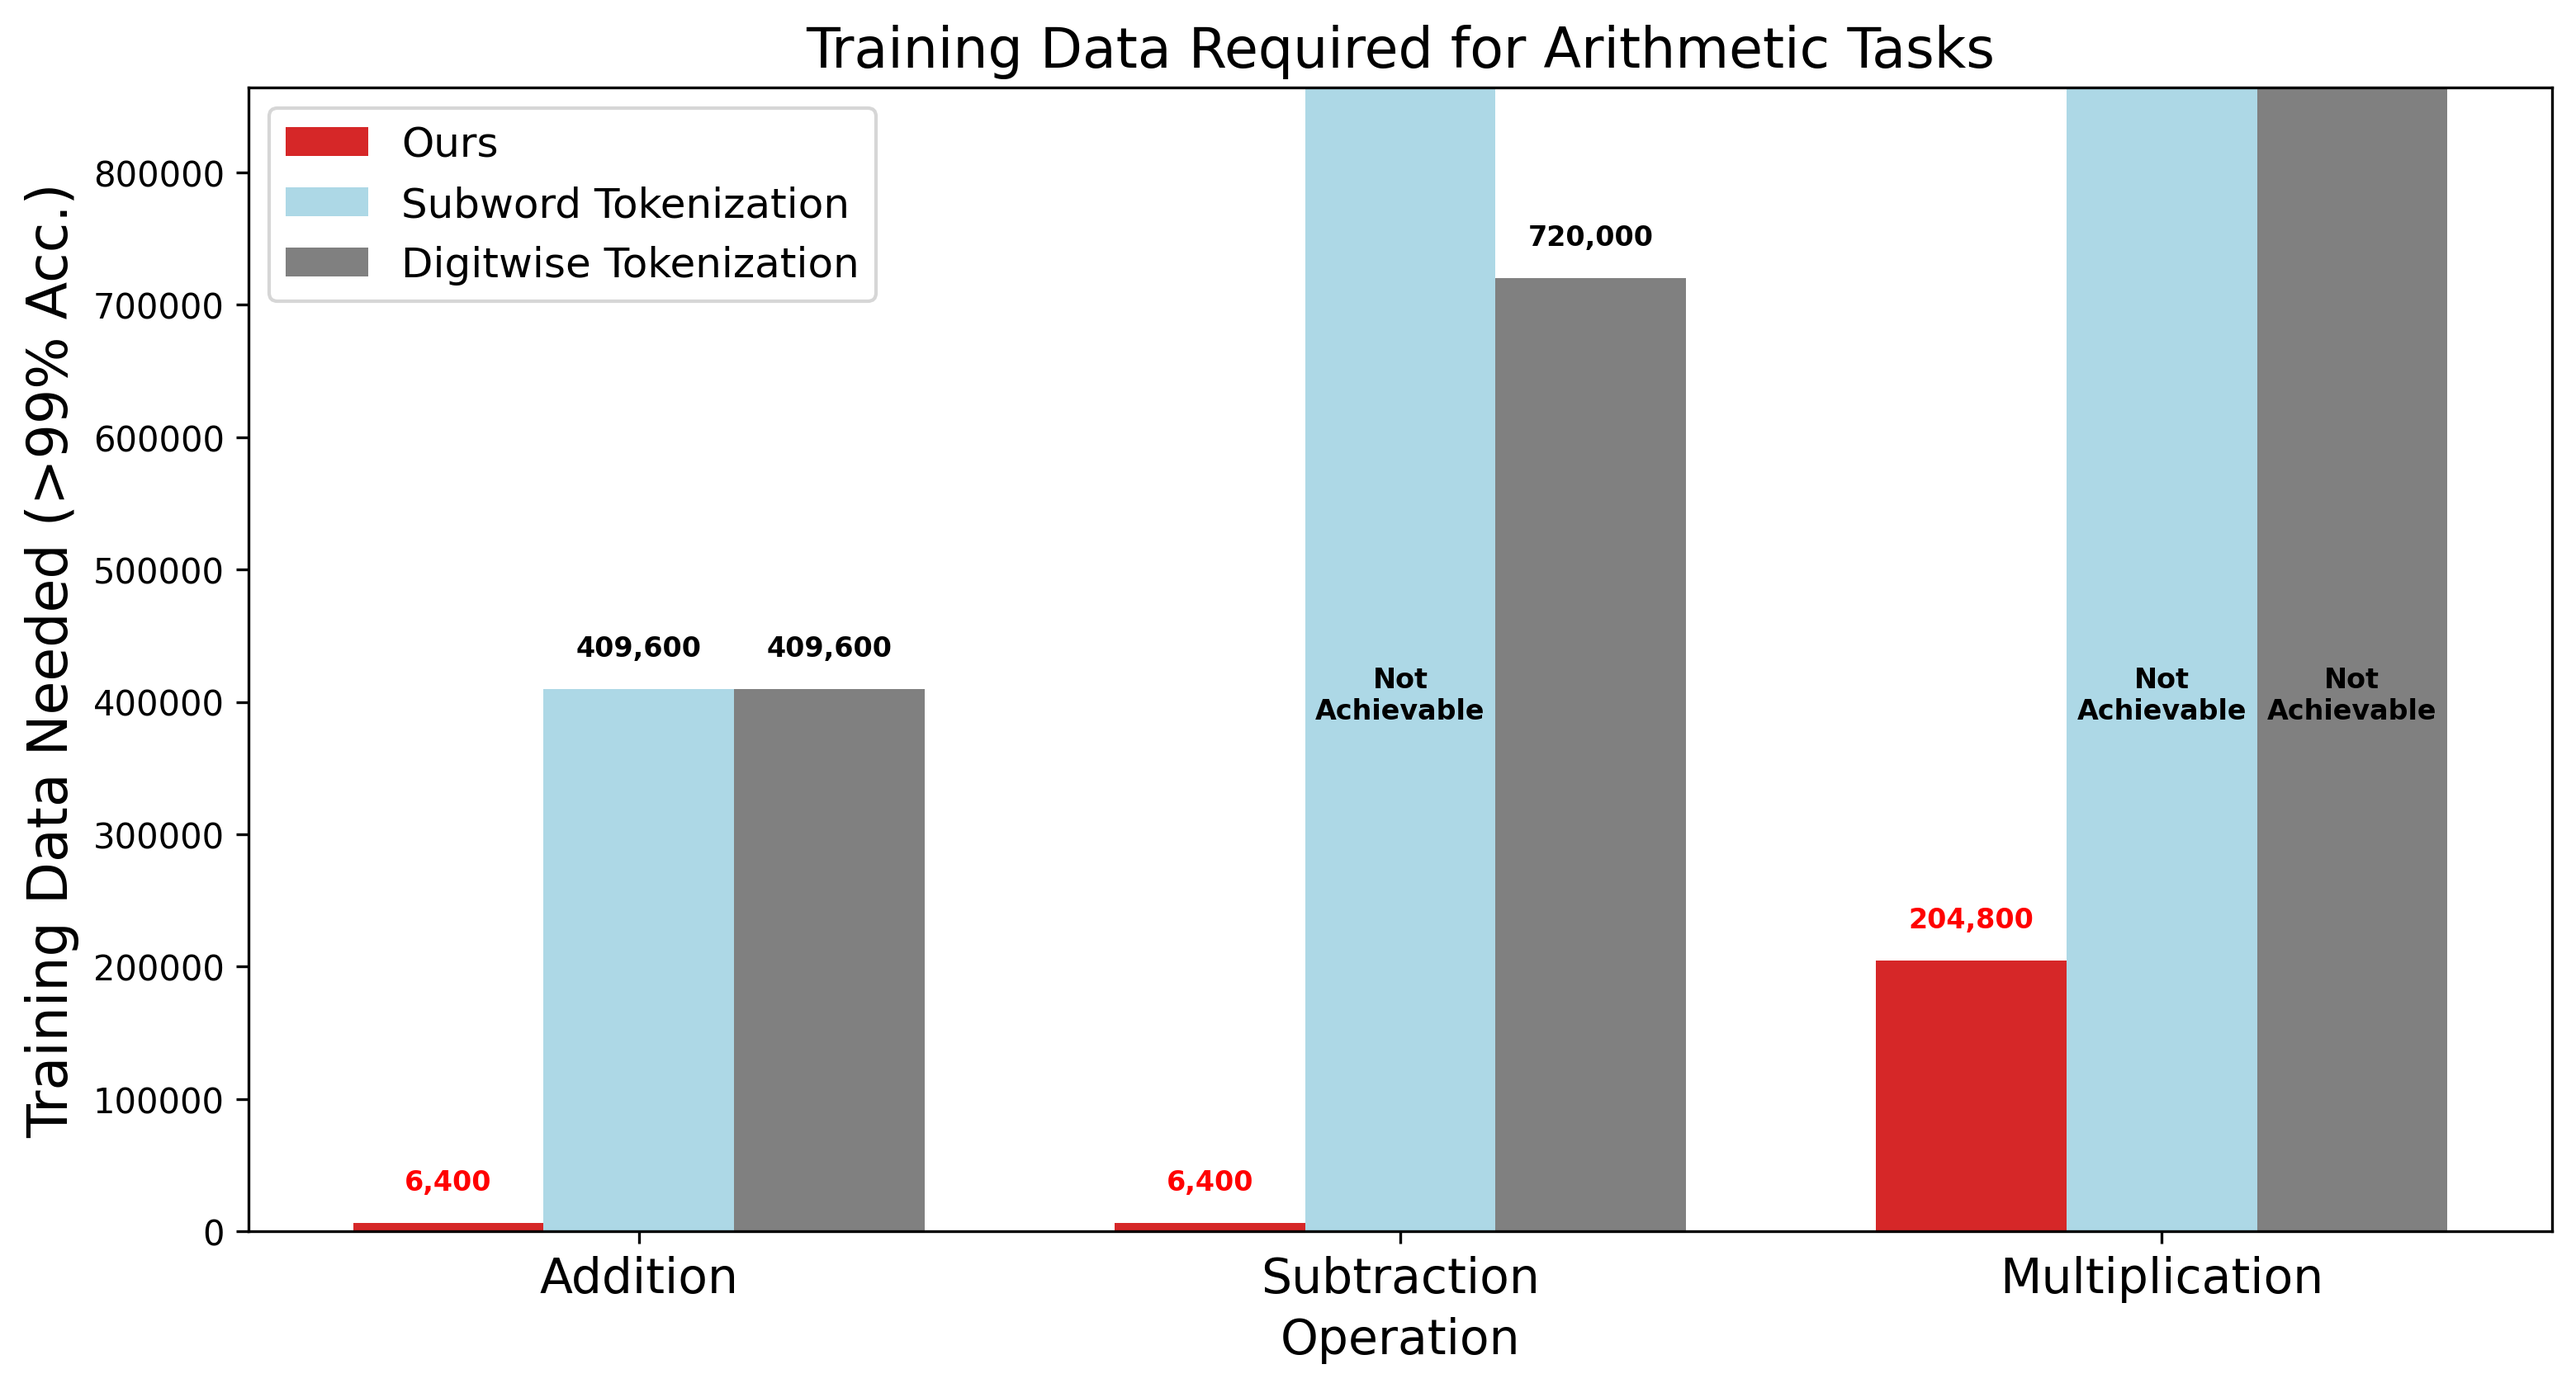
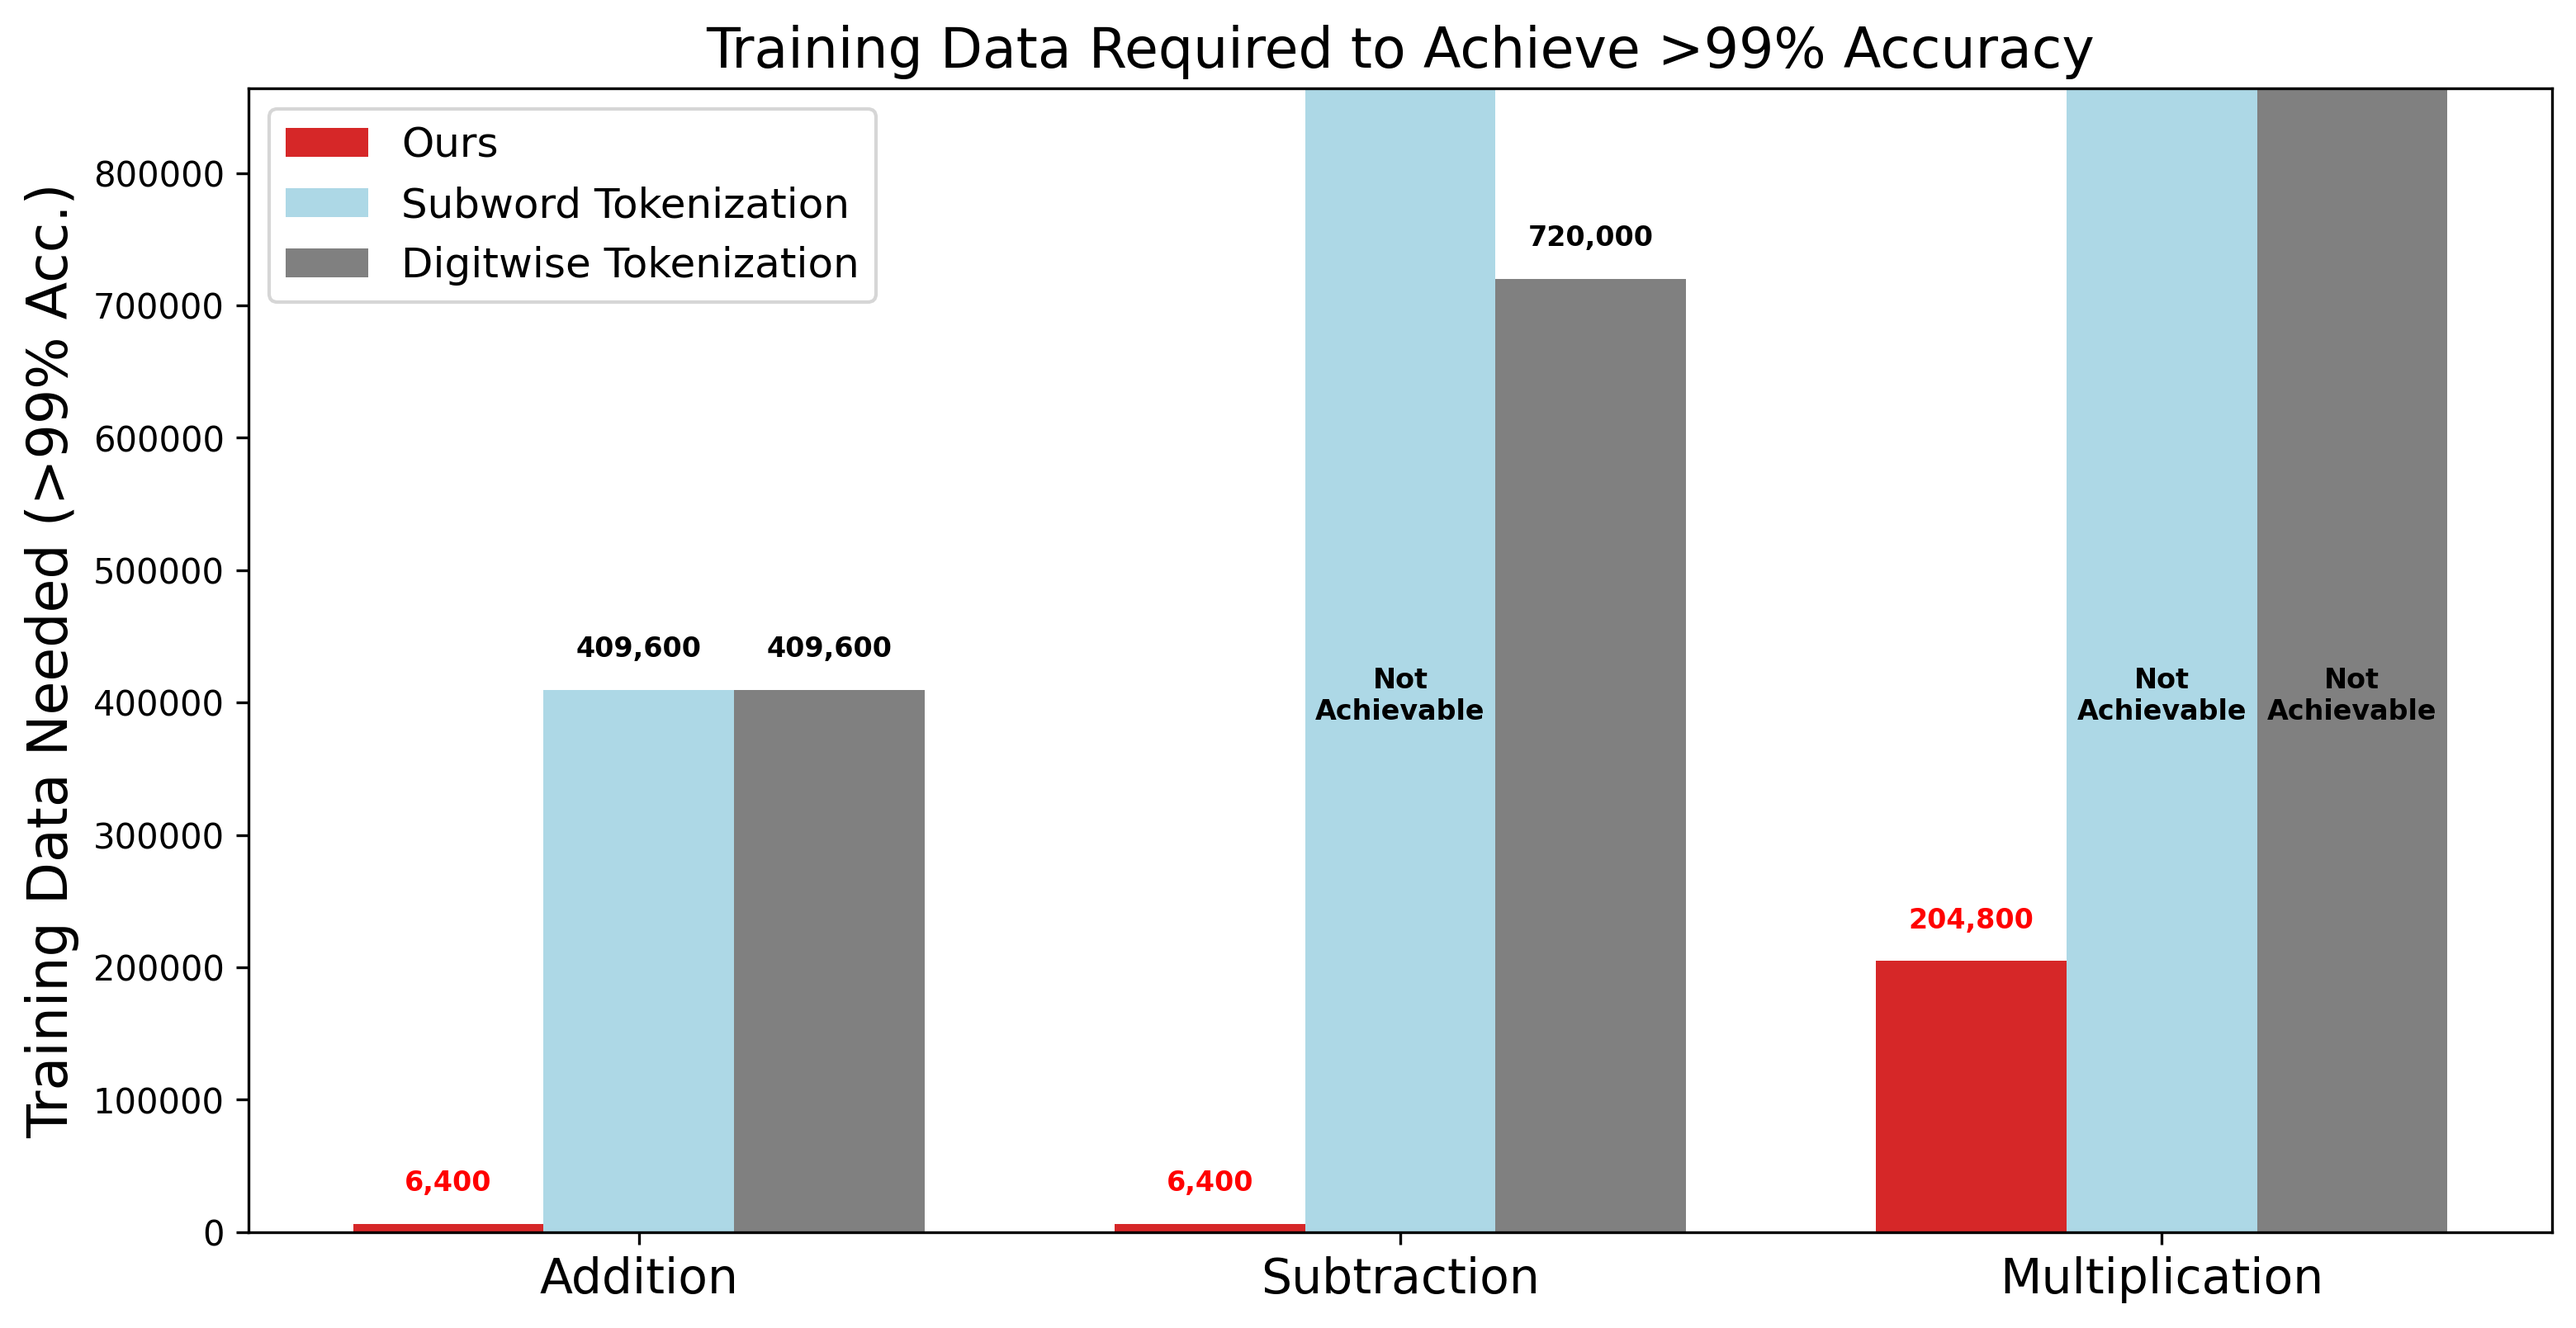
x

diff --git a/figs/barchart_data.py b/figs/barchart_data.py
@@ -61,9 +61,9 @@ for i, color in enumerate(academic_colors):
     autolabel_nan_bars(bars[i], training_data_nan_masked[:, i])
 
 # Labels and formatting
-ax.set_xlabel("Operation", fontsize=14)
+# ax.set_xlabel("Operation", fontsize=15)
 ax.set_ylabel("Training Data Needed (>99% Acc.)", fontsize=16)  # Compact and larger font
-ax.set_title("Training Data Required for Arithmetic Tasks", fontsize=16)
+ax.set_title("Training Data Required to Achieve >99% Accuracy", fontsize=16)
 ax.set_xticks(x)
 ax.set_xticklabels(operations, fontsize=14)
 ax.legend(fontsize=12)
